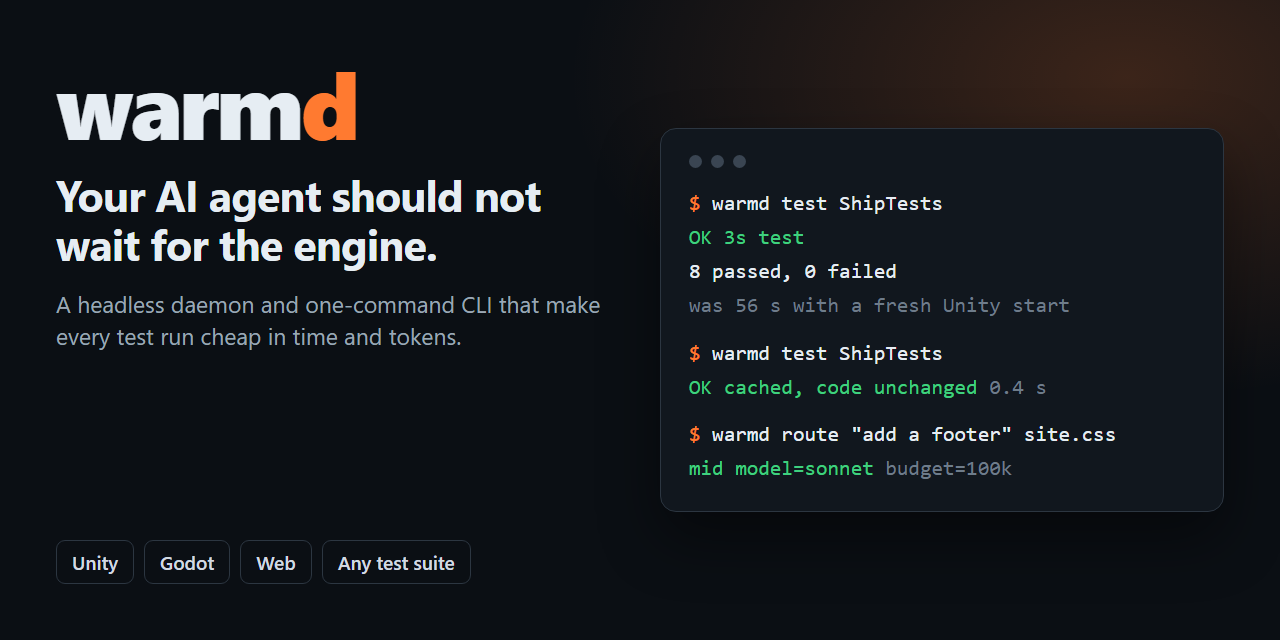
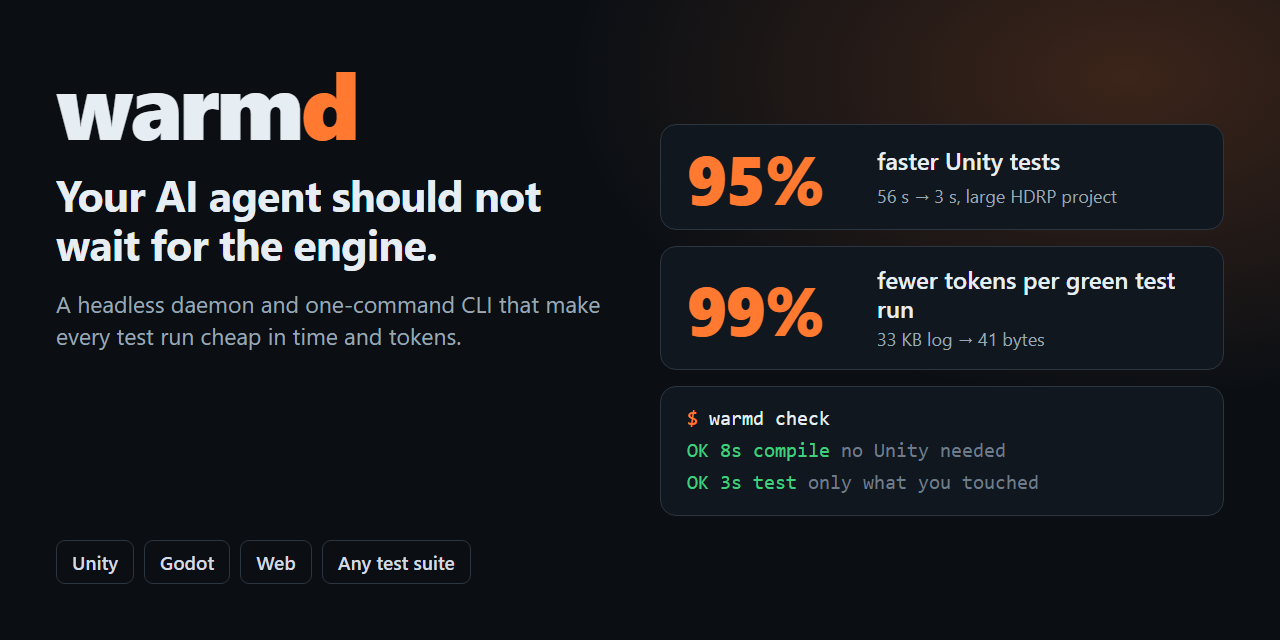
Shared brief for agents, measured token savings, executable bits
warmd split writes one short brief per batch and warmd note adds findings to it. README and social image show measured numbers.

Changed region(s): [[0.5312, 0.1875, 0.9688, 0.5625], [0.5312, 0.5938, 0.875, 0.7812]]

diff --git a/docs/assets/hero.html b/docs/assets/hero.html
@@ -12,10 +12,14 @@ h1{font-size:43px;line-height:1.14;letter-spacing:-.8px;margin-top:22px;font-wei
 .sub{color:#9aa7b4;font-size:23px;line-height:1.38;margin-top:20px}
 .stacks{display:flex;gap:10px;margin-top:auto;flex-wrap:wrap}
 .stacks b{font-size:19px;font-weight:600;padding:8px 15px;border:1px solid #2c3641;border-radius:9px;color:#d2dae2}
-.term{background:#11171e;border:1px solid #2c3641;border-radius:16px;padding:26px 28px;font:21px/1.62 Consolas,"Cascadia Mono",monospace;align-self:center;box-shadow:0 26px 60px rgba(0,0,0,.45)}
+.term{background:#11171e;border:1px solid #2c3641;border-radius:16px;padding:16px 26px;font:20px/1.6 Consolas,"Cascadia Mono",monospace}
 .dots{display:flex;gap:9px;margin-bottom:18px}.dots i{width:13px;height:13px;border-radius:50%;background:#3a4552}
 .c{color:#6e7c8a}.p{color:#ff7a30}.g{color:#3fd07f}.r{color:#ff6b6b}
-.gap{height:13px}
+.stats{position:relative;display:flex;flex-direction:column;gap:16px;justify-content:center}
+.card{background:#11171e;border:1px solid #2c3641;border-radius:16px;padding:18px 26px;display:grid;grid-template-columns:172px 1fr;align-items:center;column-gap:18px}
+.n{grid-row:span 2;font:800 68px/1 "Segoe UI",system-ui;letter-spacing:-2px;color:#ff7a30}
+.l{font-size:24px;font-weight:600;line-height:1.2}
+.m{color:#9aa7b4;font-size:18px;margin-top:4px}
 </style></head><body>
 <div class="left">
   <div class="logo">warm<span>d</span></div>
@@ -23,17 +27,9 @@ h1{font-size:43px;line-height:1.14;letter-spacing:-.8px;margin-top:22px;font-wei
   <p class="sub">A headless daemon and one-command CLI that make every test run cheap in time and tokens.</p>
   <div class="stacks"><b>Unity</b><b>Godot</b><b>Web</b><b>Any test suite</b></div>
 </div>
-<div class="term">
-  <div class="dots"><i></i><i></i><i></i></div>
-  <div><span class="p">$</span> warmd test ShipTests</div>
-  <div><span class="g">OK 3s test</span></div>
-  <div>8 passed, 0 failed</div>
-  <div class="c">was 56 s with a fresh Unity start</div>
-  <div class="gap"></div>
-  <div><span class="p">$</span> warmd test ShipTests</div>
-  <div><span class="g">OK cached, code unchanged</span> <span class="c">0.4 s</span></div>
-  <div class="gap"></div>
-  <div><span class="p">$</span> warmd route "add a footer" site.css</div>
-  <div><span class="g">mid model=sonnet</span> <span class="c">budget=100k</span></div>
+<div class="stats">
+  <div class="card"><div class="n">95%</div><div class="l">faster Unity tests</div><div class="m">56 s &rarr; 3 s, large HDRP project</div></div>
+  <div class="card"><div class="n">99%</div><div class="l">fewer tokens per green test run</div><div class="m">33 KB log &rarr; 41 bytes</div></div>
+  <div class="term"><span class="p">$</span> warmd check<br><span class="g">OK 8s compile</span> <span class="c">no Unity needed</span><br><span class="g">OK 3s test</span> <span class="c">only what you touched</span></div>
 </div>
 </body></html>

diff --git a/README.md b/README.md
@@ -17,10 +17,10 @@ It finds your stack on its own and works with Claude Code, Codex, Cursor and any
 
 <table>
 <tr>
-<td align="center" width="25%"><h3>56 s → 3 s</h3>one Unity test class<br><sub>large HDRP project</sub></td>
-<td align="center" width="25%"><h3>26 s → 8 s</h3>full PlayMode run<br><sub>with <code>--speed 8</code></sub></td>
+<td align="center" width="25%"><h3>95% faster</h3>one Unity test class<br><sub>56 s → 3 s, large HDRP project</sub></td>
+<td align="center" width="25%"><h3>99% fewer tokens</h3>per green Unity test run<br><sub>33 KB log → 41 bytes</sub></td>
 <td align="center" width="25%"><h3>0.4 s</h3>repeat run, code unchanged<br><sub>green results are cached</sub></td>
-<td align="center" width="25%"><h3>15 lines</h3>most output an agent ever sees<br><sub>the full log stays on disk</sub></td>
+<td align="center" width="25%"><h3>26 s → 8 s</h3>full PlayMode run<br><sub>with <code>--speed 8</code></sub></td>
 </tr>
 </table>
 
@@ -94,6 +94,7 @@ OK 3 tasks split
 - **Stays current by itself.** Tiers map to the aliases `haiku`, `sonnet` and `opus`, which always point to the newest release. When a new model ships there is nothing to change.
 - **Cheap first, then up.** An agent stops after two failed fixes. `warmd escalate <name>` hands the same task to the next tier, with the earlier commits as context.
 - **It learns.** An area that needed escalation twice starts one tier higher next time.
+- **A shared brief.** `warmd split` writes one short file that all agents of a batch read: who owns which file, plus findings. An agent adds a fact with `warmd note "price lives in src/price.ts:3"`, and the next one skips that search. It lives in the git directory, so every worktree sees the same copy and it is never committed. It keeps the newest 40 findings.
 - **One-line reports.** `warmd finish` pushes and prints facts from git and the last run, so a final report costs almost nothing.
 
 Any other model name works too, including other vendors. Tiers are config:
@@ -121,8 +122,17 @@ Windows 10, Unity 6000.4, Godot 4.7, Chrome. Your numbers will differ.
 | Web, 2 screenshots with a warm Vite server | | 1.3 s |
 | Vitest, touched test only instead of all | 4 s | 1.9 s |
 
-Two honest notes:
+Output per test run, in bytes. Tokens are roughly bytes divided by 4.
 
+| Run | Raw output | warmd | Saved |
+|---|---|---|---|
+| Unity, green | 33,323 | 41 | 99.9% |
+| Vitest, green | 270 | 11 | 96% |
+| Vitest, one failure | 877 | 490 | 44% |
+
+Honest notes:
+
+- These numbers cover one run, not a whole session. A session also pays for reading code and for thinking. Red runs save less, because the error is the part an agent needs.
 - The gain grows with project size. An empty Unity project starts so fast that the daemon barely matters.
 - Godot starts in about 0.2 seconds, faster than a round trip to a running daemon, so warmd runs it fresh each time. Set `warm=1` in `warmd.conf` for projects with slow autoloads.
 
@@ -139,6 +149,7 @@ warmd stop                   end the warm process for real
 
 warmd route <goal> [files]   cheapest fitting model tier
 warmd split <tasks.txt>      worktrees, models and one-line prompts for parallel agents
+warmd note "<one line>"      add a finding to the brief all agents of a batch share
 warmd escalate <name>        same task, next model tier
 warmd finish                 push and print a one-line report
 warmd board                  all worktrees at a glance

diff --git a/agents/warmd-worker.md b/agents/warmd-worker.md
@@ -5,10 +5,12 @@ model: sonnet
 tools: Bash, Read, Edit, Write, Glob, Grep
 ---
 
-Do exactly one task. The prompt names the task file, read it first.
+Do exactly one task. The prompt names the task file, read it first, then the shared brief it names.
 
 Work
 - Stay in the worktree the task names. Change only the files you own.
+- Before you search for something, check Findings in the shared brief. Other agents may have found it already.
+- When you learn something another agent needs, add one line: `warmd note "<fact with file:line>"`. Never change files another agent owns.
 - Read outlines first: `warmd map <file>`, then only the line range you need. Never read a whole large file.
 
 Verify
